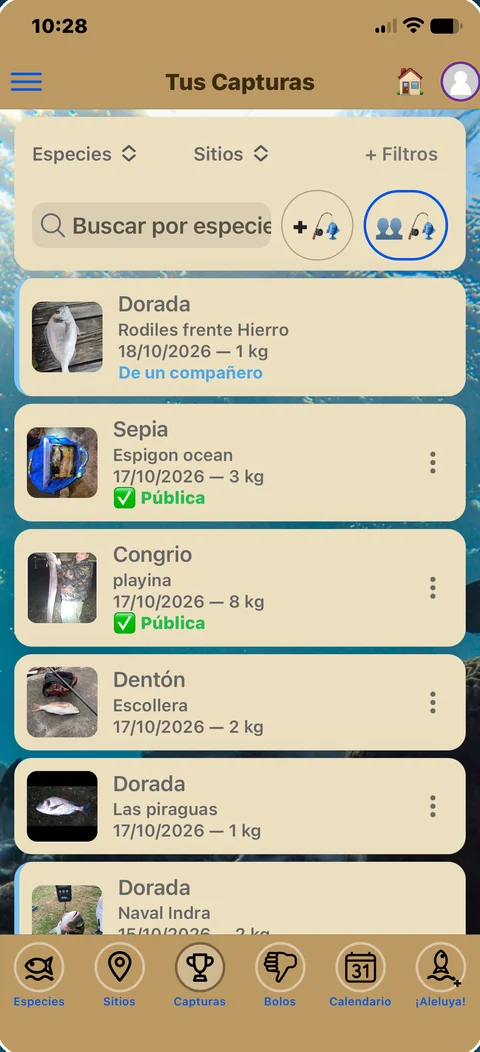
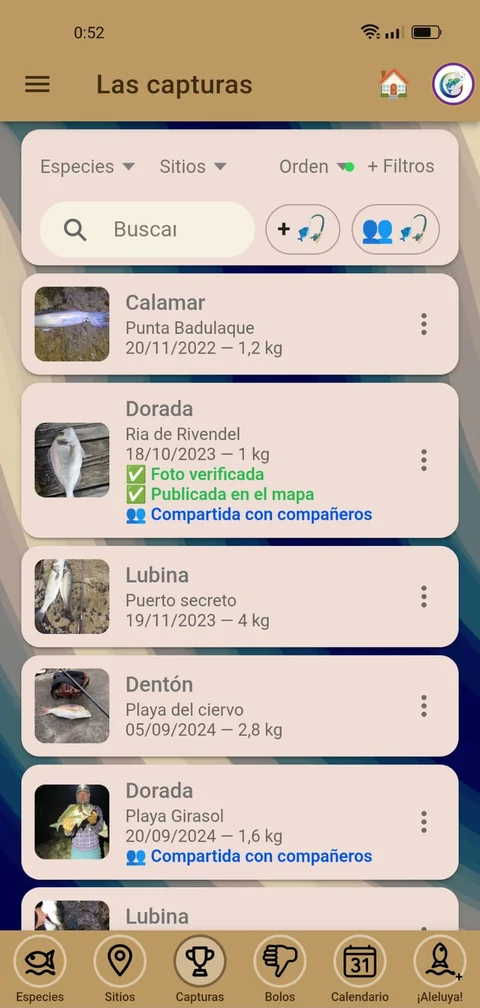
capturas pantallas

diff --git a/docs/index.html b/docs/index.html
@@ -79,7 +79,7 @@
   <section id="funciones" class="seccion">
     <h2>Todo lo que pasa en tu jornada, en un solo sitio</h2>
     <p class="sub">Pensada por y para pescadores: rápida en el spot y completa cuando llegas a casa.</p>
-    <div class="rejilla"><article class="func"><span class="ico" aria-hidden="true">📸</span><h3>Capturas completas</h3><p>Foto, peso, medida, cebo o señuelo… y el clima, el oleaje y el estado de la mar se rellenan solos.</p></article><article class="func"><span class="ico" aria-hidden="true">📍</span><h3>Tus sitios</h3><p>Guarda tus spots en el mapa o tráelos desde Google Maps. Son tuyos: nadie más los ve.</p></article><article class="func"><span class="ico" aria-hidden="true">🐟</span><h3>¿Qué pez es?</h3><p>Haz una foto y una IA especializada te dice la especie, con la talla mínima orientativa de tu zona.</p></article><article class="func"><span class="ico" aria-hidden="true">🖼</span><h3>Importa tus capturas</h3><p>¿Tienes el móvil lleno de fotos de peces? Capturia las reconoce, las agrupa por jornada y las convierte en capturas en un momento.</p></article><article class="func"><span class="ico" aria-hidden="true">👥</span><h3>Compañeros y grupos</h3><p>Envía capturas, sitios y especies a tus compañeros, crea grupos y organiza quedadas.</p></article><article class="func"><span class="ico" aria-hidden="true">🗺</span><h3>Capturas públicas</h3><p>Un mapa anónimo por zonas con lo que se está pescando cerca de ti: especies, número y peso medio.</p></article><article class="func"><span class="ico" aria-hidden="true">🪪</span><h3>Tus papeles a mano</h3><p>Licencia, seguro y documentación del barco (si tienes) guardados solo en tu móvil, con aviso antes de que caduquen.</p></article><article class="func"><span class="ico" aria-hidden="true">🎒</span><h3>Mi equipamiento</h3><p>Cañas, carretes, sedales, cebos y señuelos, con sus datos y fotos, siempre a mano.</p></article><article class="func"><span class="ico" aria-hidden="true">📶</span><h3>Sin cobertura</h3><p>En el spot no hay red, lo sabemos. Capturia funciona sin conexión y sincroniza al volver.</p></article><article class="func"><span class="ico" aria-hidden="true">🎣</span><h3>A tu manera de pescar</h3><p>Costa, barco, río o submarina: elige tu perfil y Capturia adapta las capturas y los documentos a cómo pescas tú.</p></article><article class="func"><span class="ico" aria-hidden="true">📲</span><h3>Presume de captura</h3><p>Compártela en WhatsApp, Instagram o Facebook con una tarjeta lista para enseñar: especie, peso y medida. El sitio, solo si tú quieres.</p></article><article class="func"><span class="ico" aria-hidden="true">🎓</span><h3>Aprende y mejora</h3><p>Guías visuales de cañas, carretes, anzuelos, cebos y señuelos, nudos paso a paso y cómo leer las previsiones.</p></article></div>
+    <div class="rejilla"><article class="func"><span class="ico" aria-hidden="true">📸</span><h3>Capturas completas</h3><p>Foto, peso, medida, cebo o señuelo… y el clima, el oleaje y el estado de la mar se rellenan solos.</p></article><article class="func"><span class="ico" aria-hidden="true">📍</span><h3>Tus sitios</h3><p>Guarda tus spots en el mapa o tráelos desde Google Maps. Son tuyos: nadie más los ve.</p></article><article class="func"><span class="ico" aria-hidden="true">🐟</span><h3>¿Qué pez es?</h3><p>Haz una foto y una IA especializada te dice la especie, con la talla mínima orientativa de tu zona.</p></article><article class="func"><span class="ico" aria-hidden="true">🖼</span><h3>Importa tus capturas</h3><p>¿Tienes el móvil lleno de fotos de peces? Capturia las reconoce, las agrupa por jornada y las convierte en capturas en un momento.</p></article><article class="func"><span class="ico" aria-hidden="true">👥</span><h3>Compañeros y grupos</h3><p>Envía capturas, sitios y especies a tus compañeros, crea grupos y organiza quedadas.</p></article><article class="func"><span class="ico" aria-hidden="true">🗺</span><h3>Capturas públicas</h3><p>Un mapa anónimo por zonas con lo que se está pescando cerca de ti: especies, número y peso medio.</p></article><article class="func"><span class="ico" aria-hidden="true">🪪</span><h3>Tus papeles a mano</h3><p>Licencia, seguro y documentación del barco (si tienes) guardados solo en tu móvil, con aviso antes de que caduquen.</p></article><article class="func"><span class="ico" aria-hidden="true">🎒</span><h3>Mi equipamiento</h3><p>Cañas, carretes, sedales, cebos y señuelos, con sus datos y fotos, siempre a mano.</p></article><article class="func"><span class="ico" aria-hidden="true">📶</span><h3>Sin cobertura</h3><p>En el spot no hay red, lo sabemos. Capturia funciona sin conexión y sincroniza al volver.</p></article></div>
   </section>
 
   <section id="plus-premium" class="seccion plus-premium">
